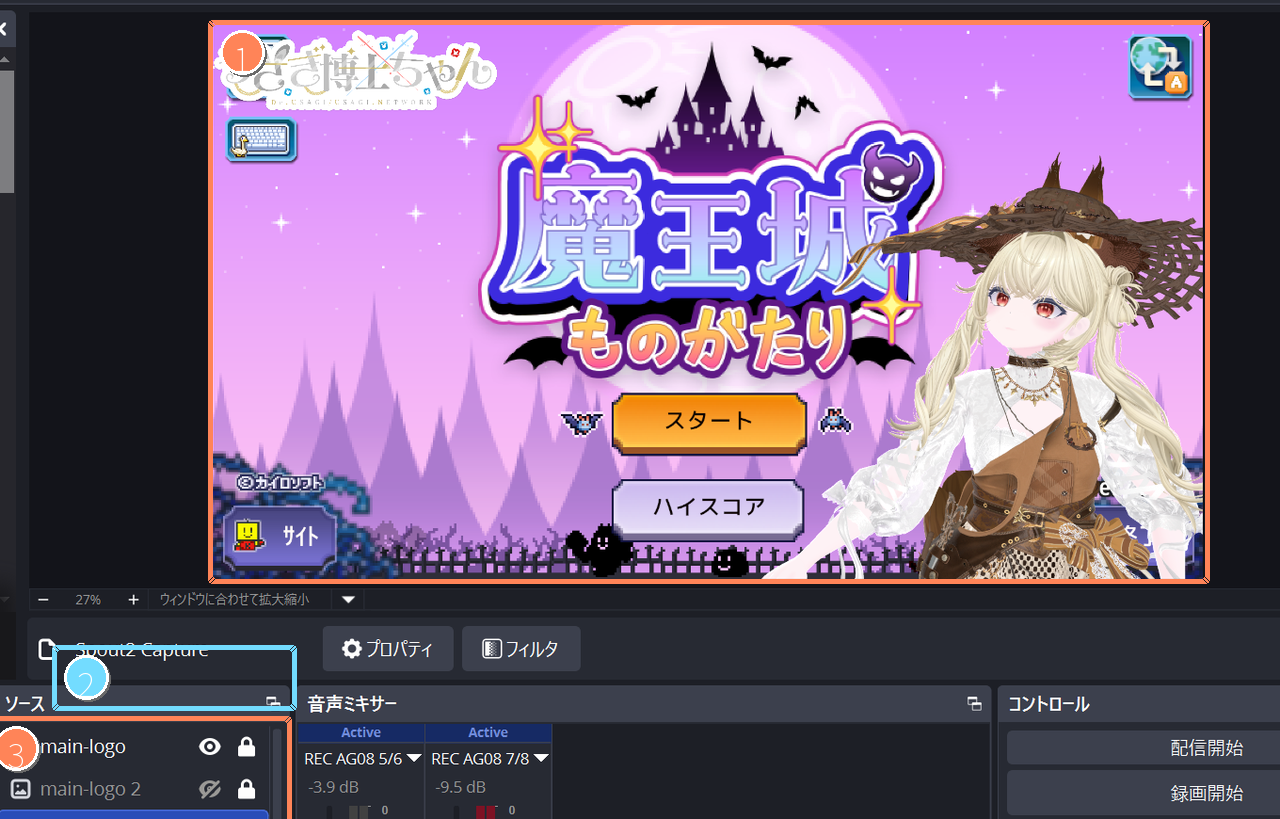
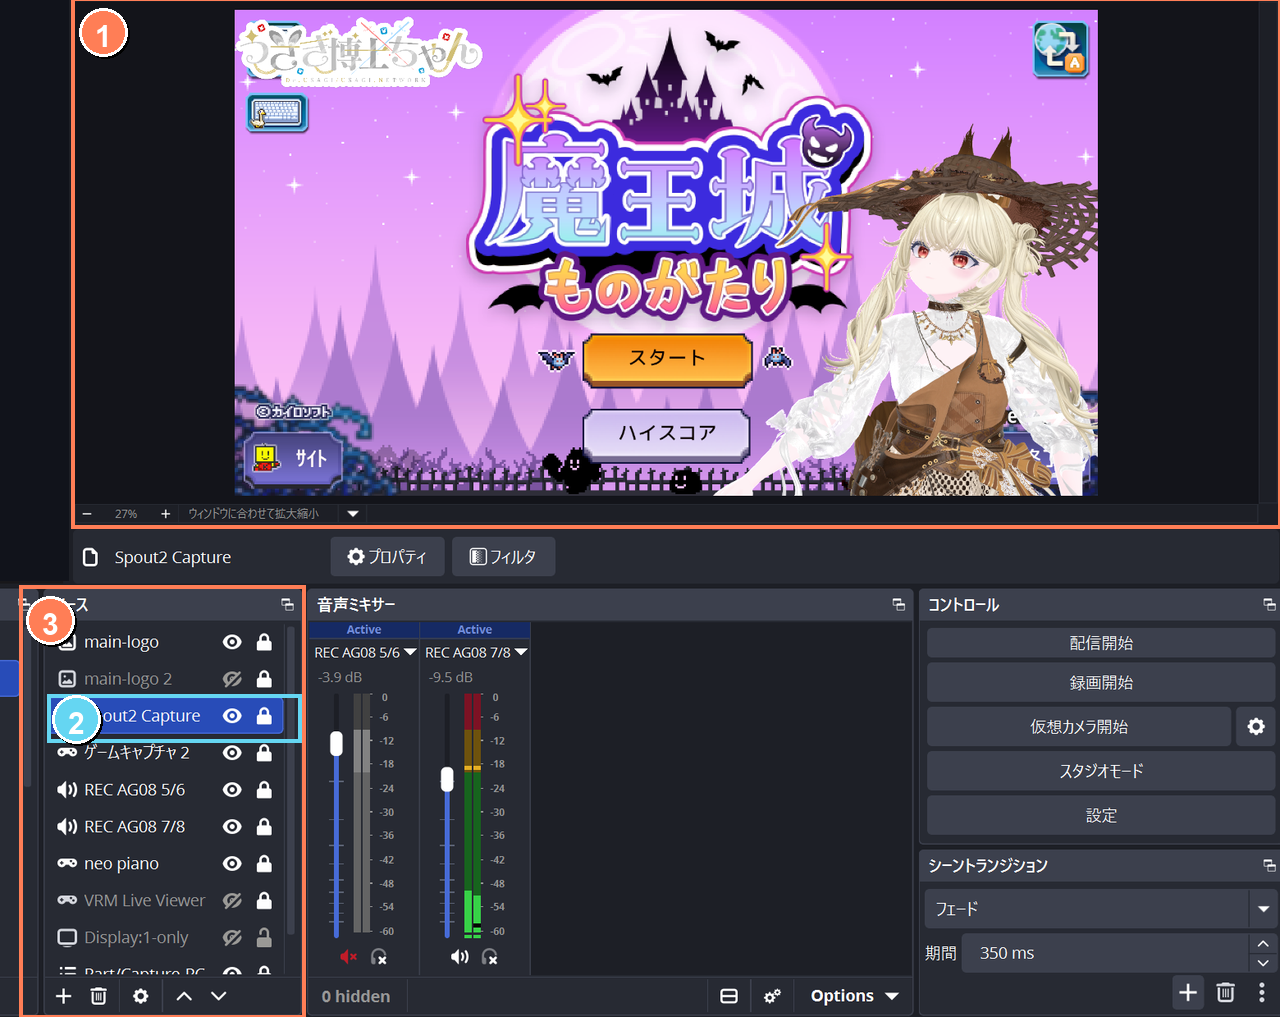
Clarify OBS Spout2 capture setup

diff --git a/docs/v2-getting-started.md b/docs/v2-getting-started.md
@@ -150,7 +150,7 @@ U.N. Motion なしでも、VMC/UDP を送信できる既存アプリを使えま
 
 ## OBS / Spout2 出力
 
-Spout2 を使う場合は、Renderer の出力モードを `Spout2 + Preview` または `Spout2 Only (HIDE)` にします。OBS 側では Spout2 Capture source を追加して、U.N. Avatar の Spout2 sender を選びます。
+Spout2 を使う場合は、Renderer の出力モードを `Spout2 + Preview` または `Spout2 Only (HIDE)` にします。OBS 側では Spout2 Capture source を追加して、U.N. Avatar の Spout2 sender を選びます。背景を透過したい場合は、Spout2 Capture の `Composite mode` を `Premultiplied Alpha` にします。
 
 ![OBS の Spout2 Capture 例。1 は配信画面へ入った U.N. Avatar 出力、2 は Spout2 Capture source、3 は source 一覧。](assets/v2-getting-started/obs-spout2-capture.png)
 
